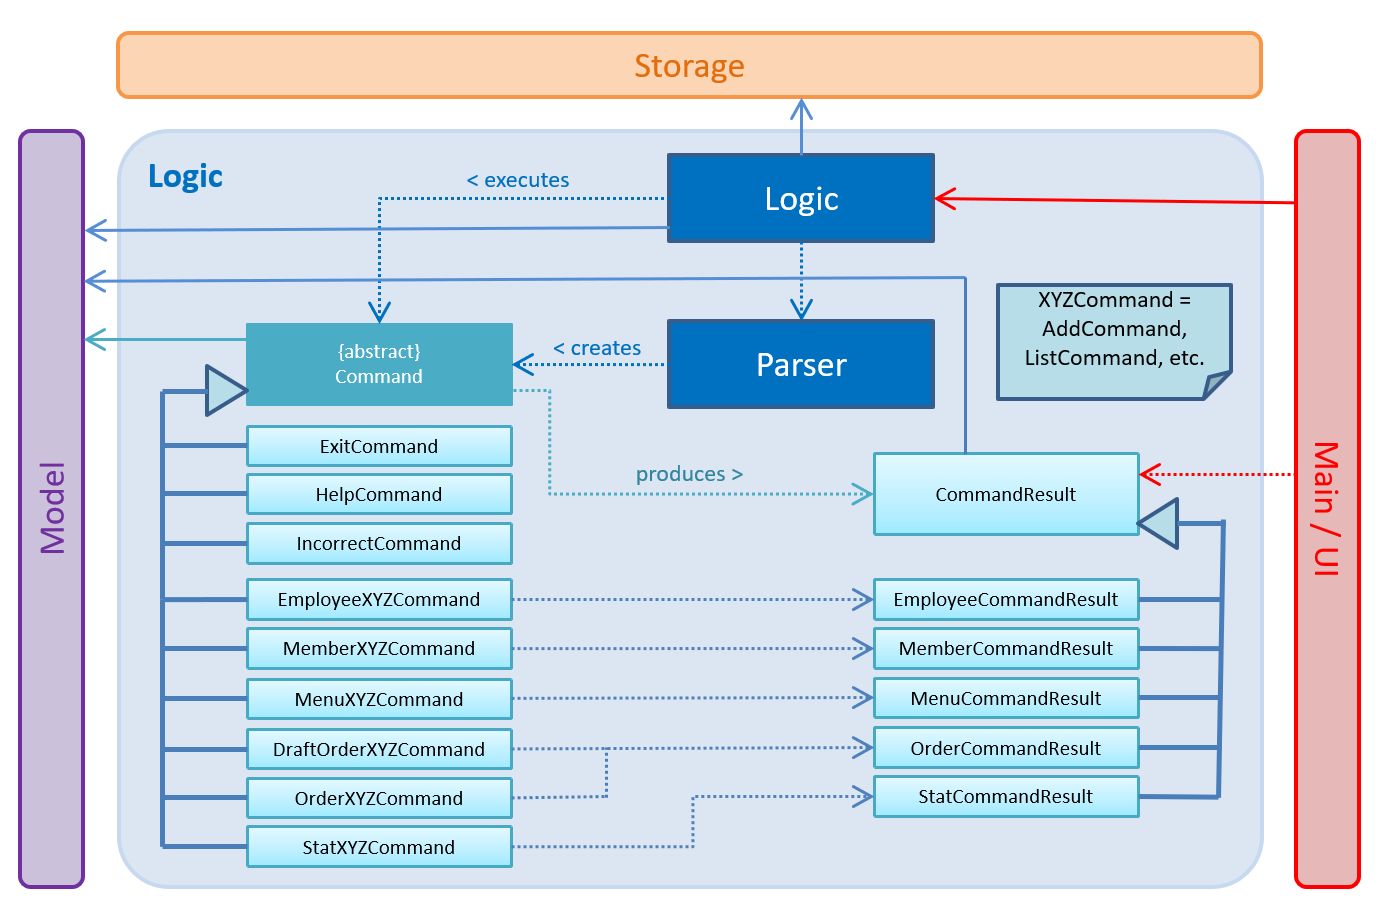
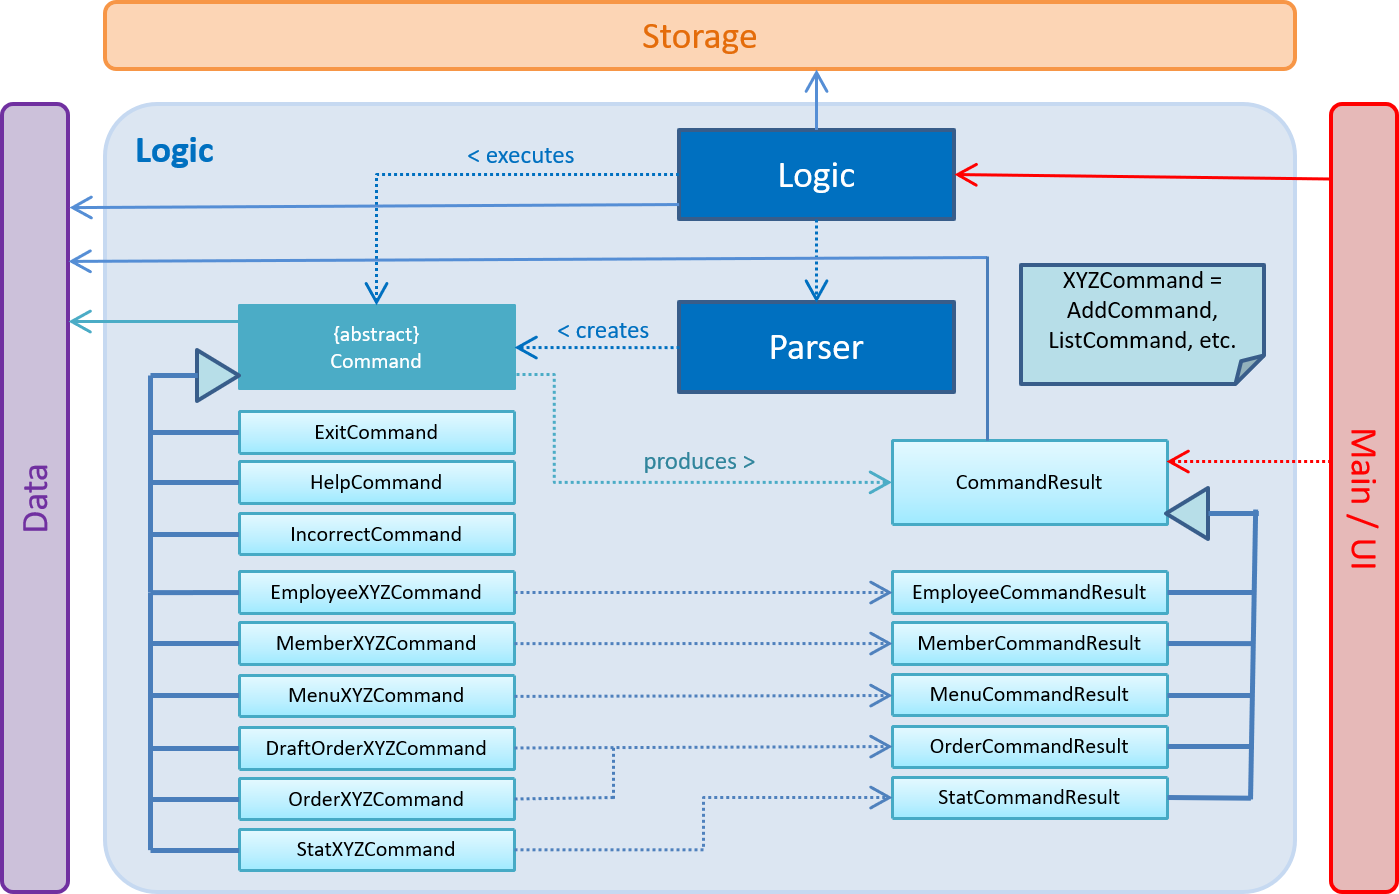
Rebuild pages at 23a5d28fb346c3df6295393c476b41d7a43b4765

diff --git a/team/kangmingtay.html b/team/kangmingtay.html
@@ -7,16 +7,34 @@
 </div>
 </div>
 <div class="sect1">
-<h2 id="overview"><a class="link" href="#overview">Overview</a></h2>
+<h2 id="overview-of-the-restaurant-management-system"><a class="link" href="#overview-of-the-restaurant-management-system">Overview of the Restaurant Management System</a></h2>
 <div class="sectionbody">
 <div class="paragraph">
-<p>Restaurant Management System (RMS) is a desktop restaurant management application used to help restaurant managers oversee their various processes in a more elegant and efficient way.</p>
+<p>Restaurant Management System (RMS) is a restaurant management solution that helps restauranteurs make more money, deliver great customer experience and bring honest and meaningful statistics to the table. The RMS was designed to improve the efficiency of completing mundane processes such as taking orders and counting the cash so that you can focus on the important things that matter - serving your customers with great food.</p>
+</div>
+<div class="paragraph">
+<p>This application is created by my team, which comprises of 5 people including myself, for the NUS module CS2113T titled, Software Engineering &amp; Object-Oriented Programming. The project lasted for around 10 weeks and we were expected to work with an existing sample codebase given by the module. The objective was to innovate and develop the existing codebase into a desktop application for a specific group of users - restaurant owners.</p>
+</div>
+<div class="paragraph">
+<p>Below shows a screenshot of the basic and simple command-line-interface of the RMS:</p>
+</div>
+<div class="imageblock">
+<div class="content">
+<img src="../images/Ui.png" alt="Ui">
+</div>
+</div>
+<div class="paragraph">
+<p><em>If you are looking for a detailed tutorial on how to use the RMS, please refer to our <a href="UserGuide.html"><strong>User Guide</strong></a>.</em><br>
+<em>If you are looking for the detailed architecture and design of the RMS or wish to contribute code to this application, please refer to our <a href="DeveloperGuide.html"><strong>Developer Guide</strong></a></em></p>
 </div>
 </div>
 </div>
 <div class="sect1">
 <h2 id="summary-of-contributions"><a class="link" href="#summary-of-contributions">Summary of contributions</a></h2>
 <div class="sectionbody">
+<div class="paragraph">
+<p>The workflow of the RMS closely resembles that of an Agile framework. At the beginning of the project, we started off with an initial architectural modeling. The project required us to release a working version of our product almost every fortnightly. Within the team, we set weekly milestones and meetings to ensure that everyone is always on track with the development of the RMS. My role in the team was to be their team leader and be responsible for the overall project coordination. Throughout this development cycle, I have made various contributions to the team, from creating new features to be added into the RMS to writing tests and ensuring that each release is functional.</p>
+</div>
 <div class="ulist">
 <ul>
 <li>
@@ -24,16 +42,16 @@
 <div class="ulist">
 <ul>
 <li>
-<p>What it does: The membership platform allows the restaurant to keep track of its existing members and accumulate their membership points. It also allows the restaurant manager / cashier to list, add and delete members from the system.</p>
+<p><code>What it does</code>: The membership platform allows the restaurant to keep track of its existing members and accumulate their membership points. It also allows the restaurant manager / cashier to list, add and delete members from the system.</p>
 </li>
 <li>
-<p>Justification: This feature improves the product significantly because it is an innovative way for restaurants to retain their customers.</p>
+<p><code>Justification</code>: This feature improves the product significantly because it is an innovative way for restaurants to retain their customers.</p>
 </li>
 <li>
-<p>Highlights: It is essential that the membership system is well integrated together with the order system. This is to ensure that when an order is made by an existing member, the member&#8217;s membership points will correspondingly be updated. Also, the commands implemented should be easy to understand and use for a non-tech savvy audience. It is important that the invalid command formats are properly taken care of in a way that it guides the user with examples on how to properly use the platform.</p>
+<p><code>Highlights</code>: It is essential that the membership system is well integrated together with the order system. This is to ensure that when an order is made by an existing member, the member&#8217;s membership points will correspondingly be updated. Also, the commands implemented should be easy to understand and use for a non-tech savvy audience. It is important that the invalid command formats are properly taken care of in a way that it guides the user with examples on how to properly use the platform.</p>
 </li>
 <li>
-<p>Credits: <a href="https://github.com/nusCS2113-AY1819S1/addressbook-level3" class="bare">https://github.com/nusCS2113-AY1819S1/addressbook-level3</a></p>
+<p><code>Credits</code>: <a href="https://github.com/nusCS2113-AY1819S1/addressbook-level3" class="bare">https://github.com/nusCS2113-AY1819S1/addressbook-level3</a></p>
 </li>
 </ul>
 </div>
@@ -228,108 +246,6 @@ Format: <code>delmember INDEX</code></p>
 </li>
 </ul>
 </div>
-</div>
-</div>
-</div>
-<div class="sect1">
-<h2 id="user-stories"><a class="link" href="#user-stories">Appendix A: User Stories</a></h2>
-<div class="sectionbody">
-<div class="paragraph">
-<p>Priorities: High (must have) - <code>* * *</code>, Medium (nice to have) - <code>* *</code>, Low (unlikely to have) - <code>*</code></p>
-</div>
-<table class="tableblock frame-all grid-all" style="width: 59%;">
-<colgroup>
-<col style="width: 22%;">
-<col style="width: 23%;">
-<col style="width: 25%;">
-<col style="width: 30%;">
-</colgroup>
-<thead>
-<tr>
-<th class="tableblock halign-left valign-top">Priority</th>
-<th class="tableblock halign-left valign-top">As a &#8230;&#8203;</th>
-<th class="tableblock halign-left valign-top">I want to &#8230;&#8203;</th>
-<th class="tableblock halign-left valign-top">So that I can&#8230;&#8203;</th>
-</tr>
-</thead>
-<tbody>
-<tr>
-<td class="tableblock halign-left valign-top"><p class="tableblock"><code>* * *</code></p></td>
-<td class="tableblock halign-left valign-top"><p class="tableblock">Cashier</p></td>
-<td class="tableblock halign-left valign-top"><p class="tableblock">add, edit and delete orders made</p></td>
-<td class="tableblock halign-left valign-top"><p class="tableblock">collate the customer’s orders and send it to the kitchen</p></td>
-</tr>
-<tr>
-<td class="tableblock halign-left valign-top"><p class="tableblock"><code>* *</code></p></td>
-<td class="tableblock halign-left valign-top"><p class="tableblock">Cashier</p></td>
-<td class="tableblock halign-left valign-top"><p class="tableblock">add new members, delete old members and view all members of the restaurant</p></td>
-<td class="tableblock halign-left valign-top"><p class="tableblock">keep track of which customer has a membership at the restaurant</p></td>
-</tr>
-<tr>
-<td class="tableblock halign-left valign-top"><p class="tableblock"><code>* * *</code></p></td>
-<td class="tableblock halign-left valign-top"><p class="tableblock">Cashier</p></td>
-<td class="tableblock halign-left valign-top"><p class="tableblock">view all existing menu items of the restaurant</p></td>
-<td class="tableblock halign-left valign-top"><p class="tableblock">know which item the customer wants when taking an order</p></td>
-</tr>
-<tr>
-<td class="tableblock halign-left valign-top"><p class="tableblock"><code>* * *</code></p></td>
-<td class="tableblock halign-left valign-top"><p class="tableblock">Manager</p></td>
-<td class="tableblock halign-left valign-top"><p class="tableblock">keep track of the restaurant business statistics such as daily revenue</p></td>
-<td class="tableblock halign-left valign-top"><p class="tableblock">understand if the restaurant is making a loss or not</p></td>
-</tr>
-<tr>
-<td class="tableblock halign-left valign-top"><p class="tableblock"><code>* * *</code></p></td>
-<td class="tableblock halign-left valign-top"><p class="tableblock">Manager</p></td>
-<td class="tableblock halign-left valign-top"><p class="tableblock">keep track of employees wages</p></td>
-<td class="tableblock halign-left valign-top"><p class="tableblock">know how much I have to pay or how much I have paid to restaurant employees</p></td>
-</tr>
-<tr>
-<td class="tableblock halign-left valign-top"><p class="tableblock"><code>* *</code></p></td>
-<td class="tableblock halign-left valign-top"><p class="tableblock">Manager</p></td>
-<td class="tableblock halign-left valign-top"><p class="tableblock">keep track of which menu item are sold the most</p></td>
-<td class="tableblock halign-left valign-top"><p class="tableblock">know which food is the best seller</p></td>
-</tr>
-<tr>
-<td class="tableblock halign-left valign-top"><p class="tableblock"><code>* *</code></p></td>
-<td class="tableblock halign-left valign-top"><p class="tableblock">Manager</p></td>
-<td class="tableblock halign-left valign-top"><p class="tableblock">add, edit and delete items from the menu</p></td>
-<td class="tableblock halign-left valign-top"><p class="tableblock">keep my restaurant menu interesting</p></td>
-</tr>
-<tr>
-<td class="tableblock halign-left valign-top"><p class="tableblock"><code>* *</code></p></td>
-<td class="tableblock halign-left valign-top"><p class="tableblock">Manager</p></td>
-<td class="tableblock halign-left valign-top"><p class="tableblock">list employees</p></td>
-<td class="tableblock halign-left valign-top"><p class="tableblock">to view the details of the employees working in the restaurant</p></td>
-</tr>
-<tr>
-<td class="tableblock halign-left valign-top"><p class="tableblock"><code>* * *</code></p></td>
-<td class="tableblock halign-left valign-top"><p class="tableblock">Manager</p></td>
-<td class="tableblock halign-left valign-top"><p class="tableblock">add, edit and delete employees from the system</p></td>
-<td class="tableblock halign-left valign-top"><p class="tableblock">to manage information of the employees working in the restaurant</p></td>
-</tr>
-<tr>
-<td class="tableblock halign-left valign-top"><p class="tableblock"><code>* * *</code></p></td>
-<td class="tableblock halign-left valign-top"><p class="tableblock">Chef</p></td>
-<td class="tableblock halign-left valign-top"><p class="tableblock">view all the orders made</p></td>
-<td class="tableblock halign-left valign-top"><p class="tableblock">know which order I need to prepare next</p></td>
-</tr>
-<tr>
-<td class="tableblock halign-left valign-top"><p class="tableblock"><code>* * *</code></p></td>
-<td class="tableblock halign-left valign-top"><p class="tableblock">Chef</p></td>
-<td class="tableblock halign-left valign-top"><p class="tableblock">update the order status</p></td>
-<td class="tableblock halign-left valign-top"><p class="tableblock">let the customers know that their orders are ready</p></td>
-</tr>
-<tr>
-<td class="tableblock halign-left valign-top"><p class="tableblock"><code>* *</code></p></td>
-<td class="tableblock halign-left valign-top"><p class="tableblock">Employee</p></td>
-<td class="tableblock halign-left valign-top"><p class="tableblock">clock in and clock out attendance</p></td>
-<td class="tableblock halign-left valign-top"><p class="tableblock">account for the time period which I am working</p></td>
-</tr>
-</tbody>
-</table>
-<div class="paragraph">
-<p><em>{More to be added}</em></p>
-</div>
 <h3 id="use-case-list-member" class="discrete">Use case: List member</h3>
 <div class="paragraph">
 <p>System: Restaurant Management System (RMS)<br>
@@ -492,4 +408,5 @@ Guarantees:</p>
 </ul>
 </div>
 </div>
-</div></div><div id="footer"><div class="container"><div id="footer-text">Last updated 2018-11-06 04:50:13 UTC</div></div></div></body></html>
+</div>
+</div></div><div id="footer"><div class="container"><div id="footer-text">Last updated 2018-11-06 06:42:49 UTC</div></div></div></body></html>

diff --git a/AboutUs.html b/AboutUs.html
@@ -19,7 +19,7 @@ We are a team based in the <a href="http://www.comp.nus.edu.sg">School of Comput
 </div>
 </div>
 <div class="paragraph">
-<p> [<a href="https://github.com/kangmingtay">github</a>] [<a href="team/kangming.html">portfolio</a>]</p>
+<p> [<a href="https://github.com/kangmingtay">github</a>] [<a href="team/kangmingtay.html">portfolio</a>]</p>
 </div>
 <div class="paragraph">
 <p>Role: Team Leader<br>
@@ -35,7 +35,7 @@ Responsibilities: Responsible for overall project coordination.</p>
 </div>
 </div>
 <div class="paragraph">
-<p>[<a href="https://github.com/SalsabilTasnia">github</a>] [<a href="team/salsabil.html">portfolio</a>]</p>
+<p>[<a href="https://github.com/SalsabilTasnia">github</a>] [<a href="team/salsabiltasnia.html">portfolio</a>]</p>
 </div>
 <div class="paragraph">
 <p>Role: Developer, Documentation Lead<br>
@@ -83,7 +83,7 @@ Responsibilities: In charge of the Statistics feature</p>
 </div>
 </div>
 <div class="paragraph">
-<p>[<a href="https://github.com/kianhong95">github</a>] [<a href="team/kianhong.html">portfolio</a>]</p>
+<p>[<a href="https://github.com/kianhong95">github</a>] [<a href="team/kianhong95.html">portfolio</a>]</p>
 </div>
 <div class="paragraph">
 <p>Role: Developer<br>
@@ -92,4 +92,4 @@ Responsibilities: In charge of Employee Feature</p>
 <hr>
 </div>
 </div>
-</div></div><div id="footer"><div class="container"><div id="footer-text">Last updated 2018-11-06 04:50:13 UTC</div></div></div></body></html>
+</div></div><div id="footer"><div class="container"><div id="footer-text">Last updated 2018-11-06 06:42:49 UTC</div></div></div></body></html>

diff --git a/DeveloperGuide.html b/DeveloperGuide.html
@@ -344,7 +344,7 @@ Furthermore, <code>Gui</code> and <code>MainWindow</code> are both dependant on 
 <p>This results in a <code>Command</code> object which is executed by <code>Logic</code>.</p>
 </li>
 <li>
-<p>The command execution can affect the <code>Model</code> (e.g. adding a new member) and/or raise events.</p>
+<p>The command execution can affect the <code>Data</code> (e.g. adding a new member) and/or raise events.</p>
 </li>
 <li>
 <p>The result of the command execution is encapsulated as a <code>CommandResult</code> object which is passed back to the <code>Ui</code>.</p>
@@ -1645,4 +1645,4 @@ Guarantees:</p>
 <p><em>{More to be added}</em></p>
 </div>
 </div>
-</div></div><div id="footer"><div class="container"><div id="footer-text">Last updated 2018-11-06 04:50:13 UTC</div></div></div></body></html>
+</div></div><div id="footer"><div class="container"><div id="footer-text">Last updated 2018-11-06 06:42:49 UTC</div></div></div></body></html>

diff --git a/team/px1099.html b/team/px1099.html
@@ -435,7 +435,7 @@ e.g. <code>deleteorder 3</code></p>
 <p>This results in a <code>Command</code> object which is executed by <code>Logic</code>.</p>
 </li>
 <li>
-<p>The command execution can affect the <code>Model</code> (e.g. adding a new member) and/or raise events.</p>
+<p>The command execution can affect the <code>Data</code> (e.g. adding a new member) and/or raise events.</p>
 </li>
 <li>
 <p>The result of the command execution is encapsulated as a <code>CommandResult</code> object which is passed back to the <code>Ui</code>.</p>
@@ -523,4 +523,4 @@ and adjusting the returning command in the <code>Parser</code> based on that var
 </div>
 </div>
 </div>
-</div></div><div id="footer"><div class="container"><div id="footer-text">Last updated 2018-11-06 04:50:13 UTC</div></div></div></body></html>
+</div></div><div id="footer"><div class="container"><div id="footer-text">Last updated 2018-11-06 06:42:49 UTC</div></div></div></body></html>

diff --git a/ContactUs.html b/ContactUs.html
@@ -13,4 +13,4 @@ if you noticed bugs or have suggestions on how to improve.</p>
 <p><strong>Contributing</strong> : We welcome pull requests. Follow the process described <a href="https://github.com/oss-generic/process">here</a></p>
 </li>
 </ul>
-</div></div><div id="footer"><div class="container"><div id="footer-text">Last updated 2018-11-06 04:50:13 UTC</div></div></div></body></html>
+</div></div><div id="footer"><div class="container"><div id="footer-text">Last updated 2018-11-06 06:42:49 UTC</div></div></div></body></html>

diff --git a/LearningOutcomes.html b/LearningOutcomes.html
@@ -503,4 +503,4 @@ of storages, but different number of storages (e.g. save to both a text file and
 </div>
 </div>
 </div>
-</div></div><div id="footer"><div class="container"><div id="footer-text">Last updated 2018-11-06 04:50:13 UTC</div></div></div></body></html>
+</div></div><div id="footer"><div class="container"><div id="footer-text">Last updated 2018-11-06 06:42:49 UTC</div></div></div></body></html>

diff --git a/UserGuide.html b/UserGuide.html
@@ -821,4 +821,4 @@ e.g. <code>deleteorder 3</code></p>
 </div>
 </div>
 </div>
-</div></div><div id="footer"><div class="container"><div id="footer-text">Last updated 2018-11-06 04:50:13 UTC</div></div></div></body></html>
+</div></div><div id="footer"><div class="container"><div id="footer-text">Last updated 2018-11-06 06:42:49 UTC</div></div></div></body></html>

diff --git a/team/salsabiltasnia.html b/team/salsabiltasnia.html
@@ -646,4 +646,4 @@ Actor: Cashier</p>
 <p>Use case ends.</p>
 </div>
 </div>
-</div></div><div id="footer"><div class="container"><div id="footer-text">Last updated 2018-11-06 04:50:13 UTC</div></div></div></body></html>
+</div></div><div id="footer"><div class="container"><div id="footer-text">Last updated 2018-11-06 06:42:49 UTC</div></div></div></body></html>

diff --git a/team/angwm.html b/team/angwm.html
@@ -401,4 +401,4 @@ Format: statsorder</p>
 </ul>
 </div>
 </div>
-</div></div><div id="footer"><div class="container"><div id="footer-text">Last updated 2018-11-06 04:50:13 UTC</div></div></div></body></html>
+</div></div><div id="footer"><div class="container"><div id="footer-text">Last updated 2018-11-06 06:42:49 UTC</div></div></div></body></html>

diff --git a/index.html b/index.html
@@ -72,4 +72,4 @@ SE-EDU initiative.</p>
 </ul>
 </div>
 </div>
-</div></div><div id="footer"><div class="container"><div id="footer-text">Last updated 2018-11-06 04:50:13 UTC</div></div></div></body></html>
+</div></div><div id="footer"><div class="container"><div id="footer-text">Last updated 2018-11-06 06:42:49 UTC</div></div></div></body></html>

diff --git a/team/kianhong95.html b/team/kianhong95.html
@@ -684,4 +684,4 @@ Guarantees:</p>
 </ul>
 </div>
 </div>
-</div></div><div id="footer"><div class="container"><div id="footer-text">Last updated 2018-11-06 04:50:13 UTC</div></div></div></body></html>
+</div></div><div id="footer"><div class="container"><div id="footer-text">Last updated 2018-11-06 06:42:49 UTC</div></div></div></body></html>
